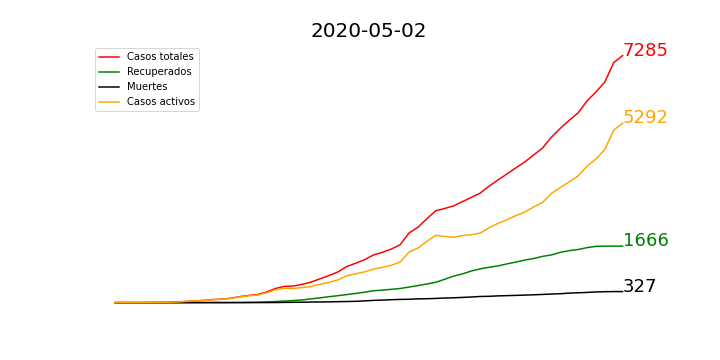
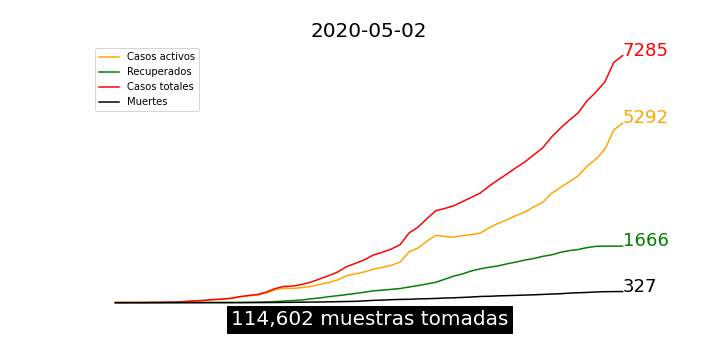
Agregada información tests realizados

Changed region(s): [[0.1528, 0.7944, 0.7333, 0.9472], [0.1528, 0.2139, 0.275, 0.3056], [0.2139, 0.1222, 0.275, 0.1833]]

diff --git a/README.md b/README.md
@@ -24,5 +24,5 @@ Columnas:
 Los datos faltantes se expresan como -1
 
 
-## Licence
+## License
 <a rel="license" href="http://creativecommons.org/licenses/by-sa/4.0/"><img alt="Creative Commons License" style="border-width:0" src="https://i.creativecommons.org/l/by-sa/4.0/80x15.png" /></a><br />This work is licensed under a <a rel="license" href="http://creativecommons.org/licenses/by-sa/4.0/">Creative Commons Attribution-ShareAlike 4.0 International License</a>.
